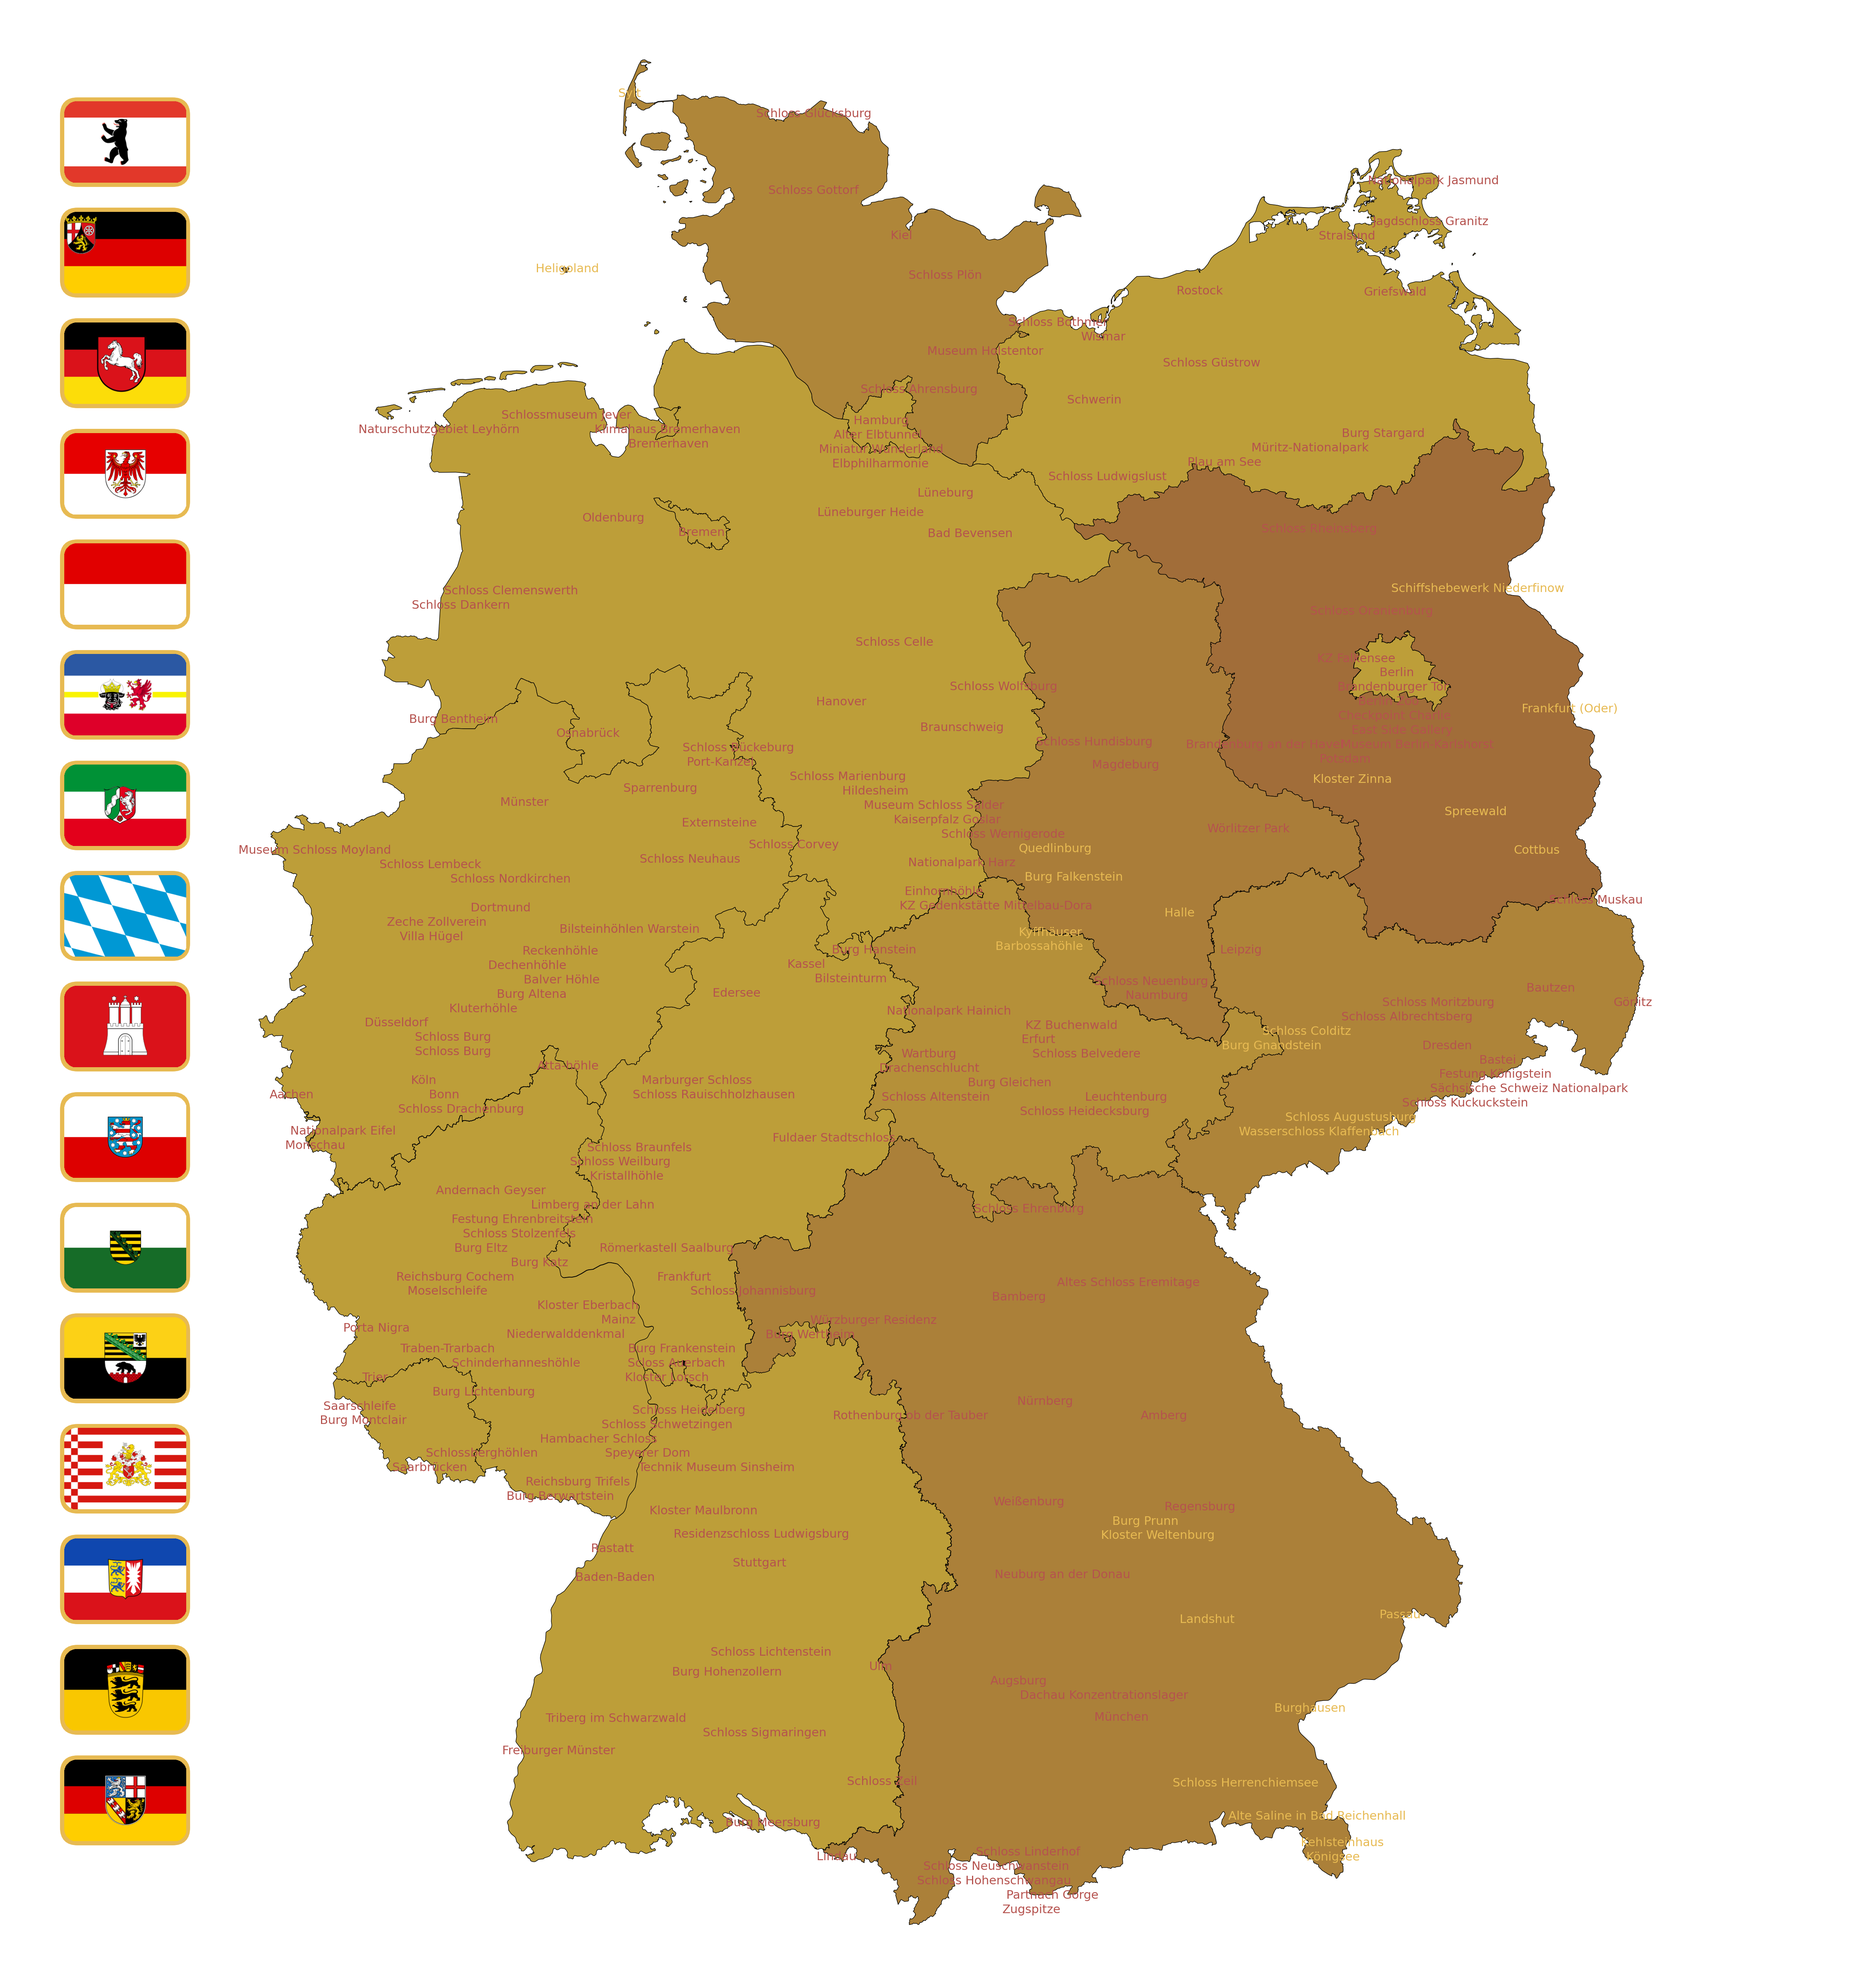
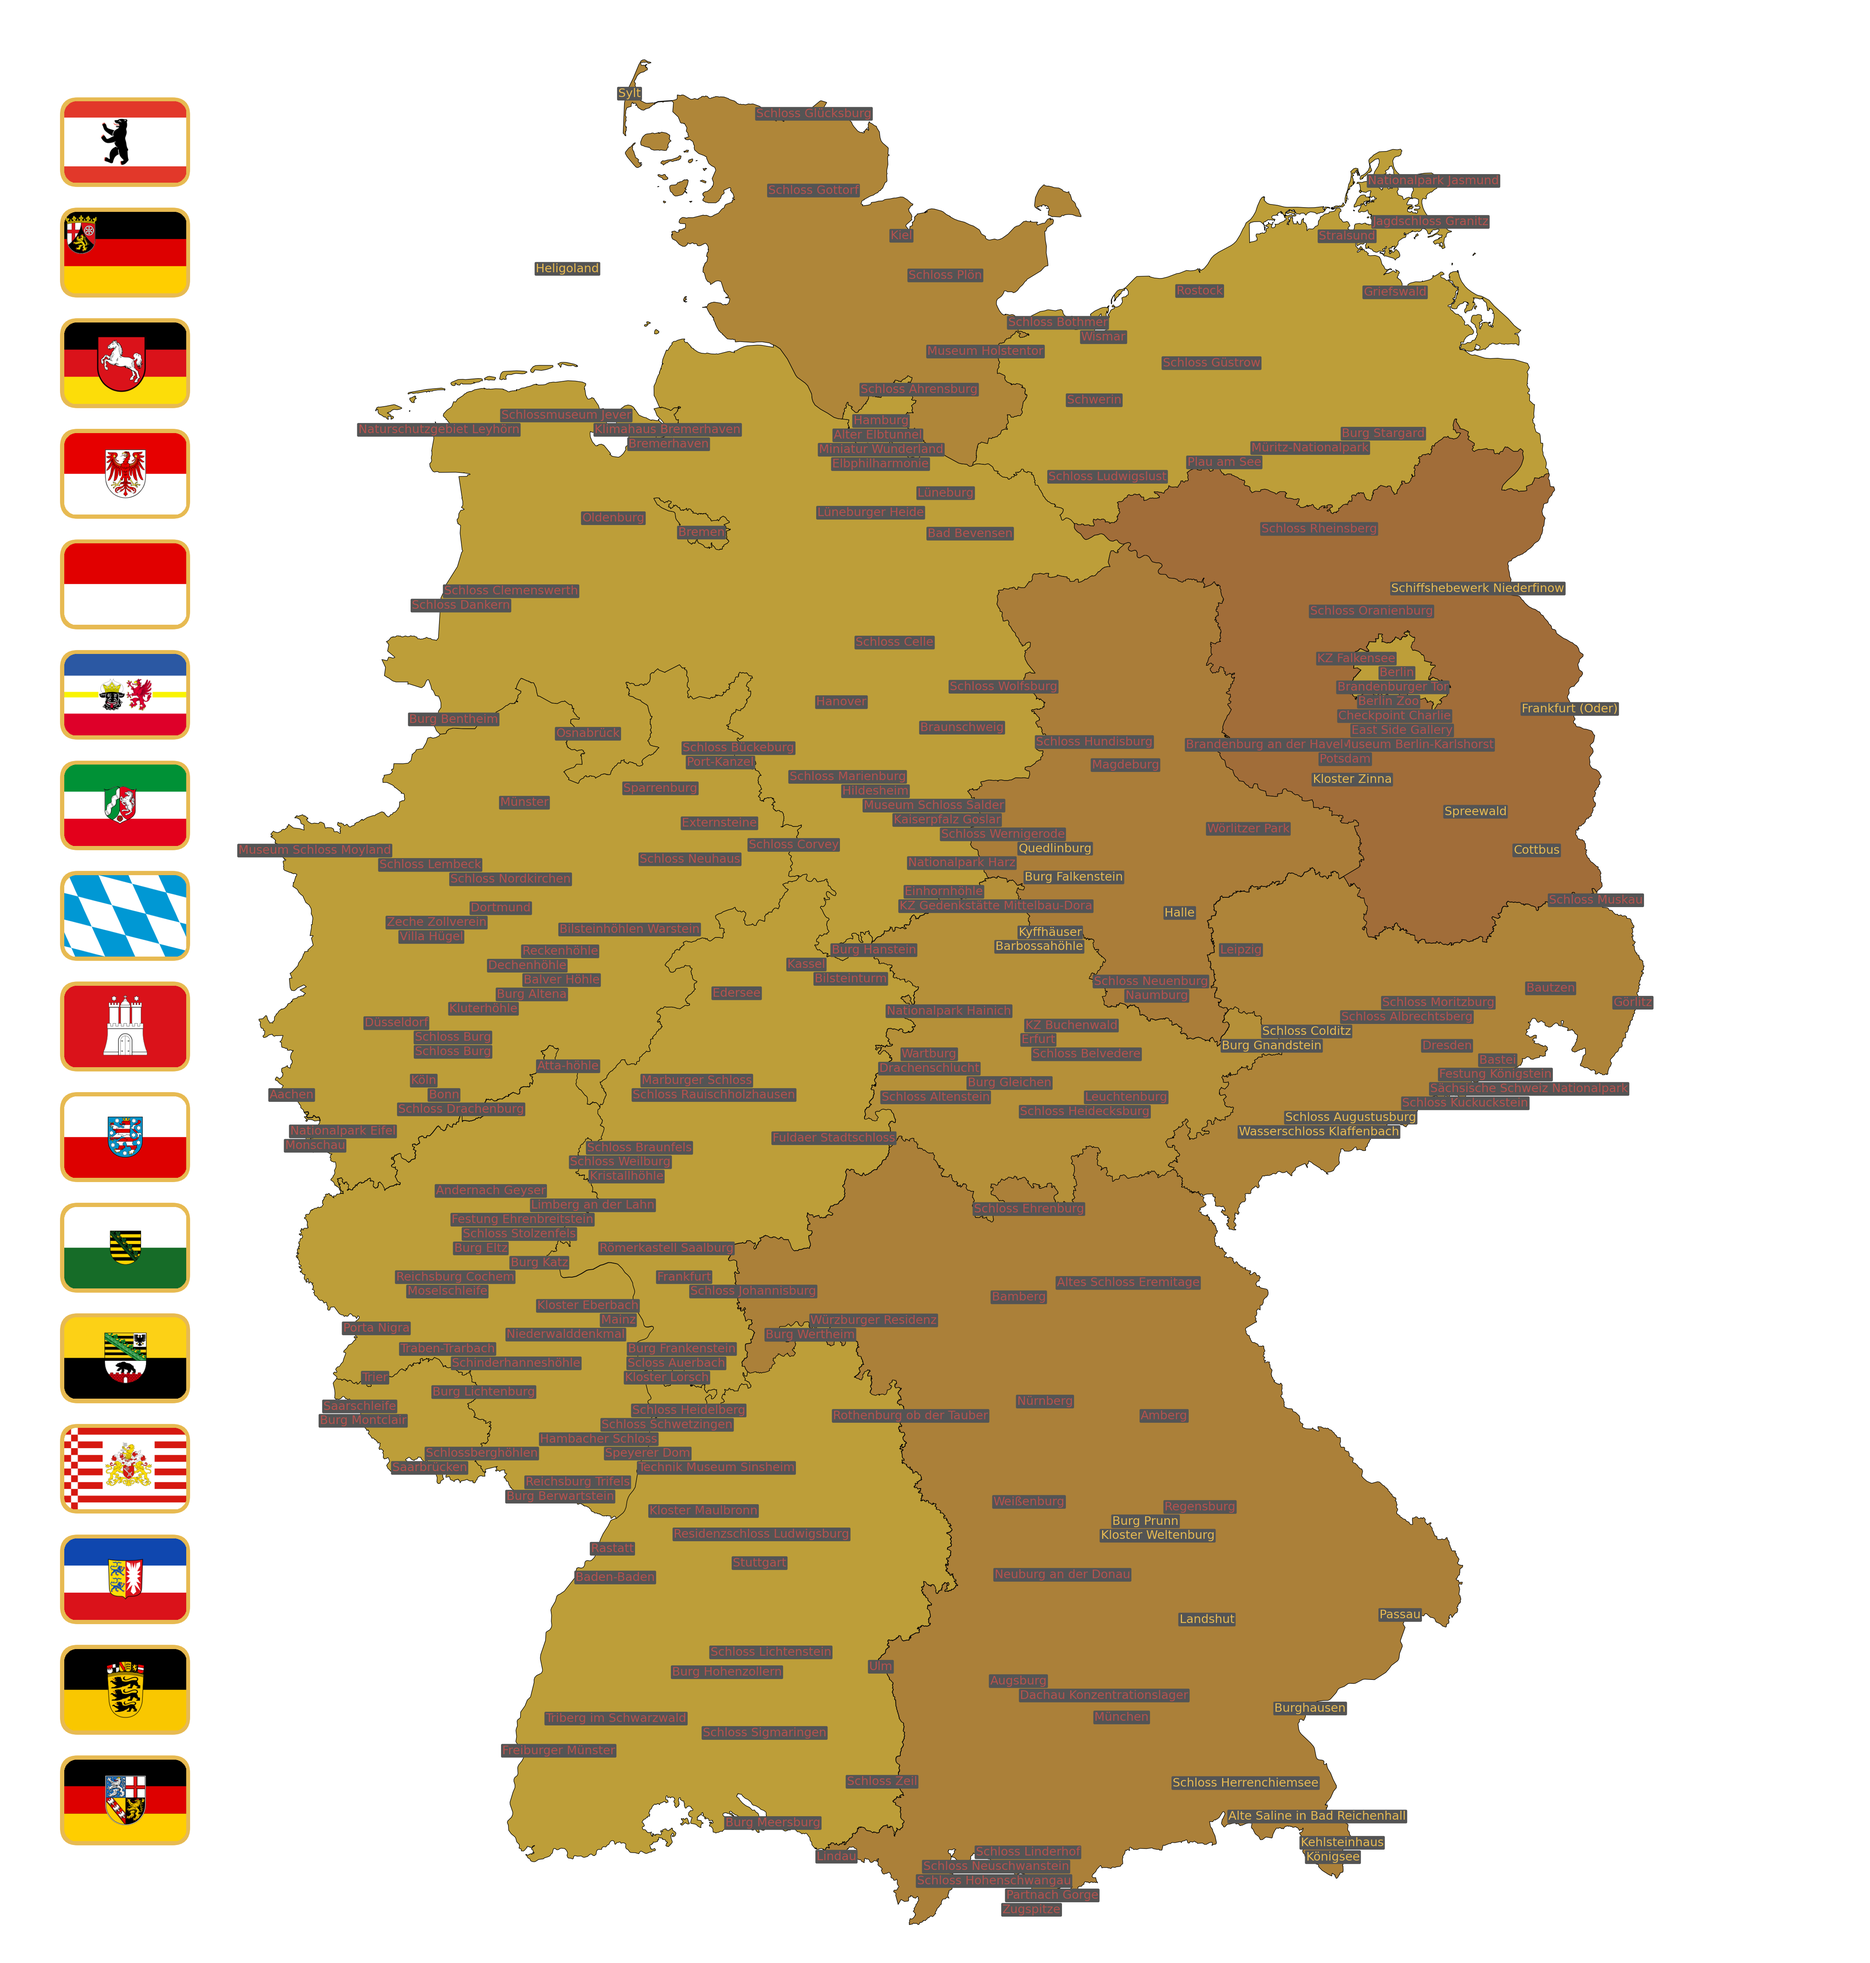
add boundary box for text

diff --git a/plotting/plotting_helpers.py b/plotting/plotting_helpers.py
@@ -30,7 +30,13 @@ def plot_location_labels(ax, locations_df, current_date, labels_config, scale, c
             fontsize=labels_config["Font"] * scale,
             color=label_color,
             ha="center",
-            va="center"
+            va="center",
+            bbox=dict(
+                boxstyle="round,pad=0.1",
+                facecolor="#545454",
+                #alpha=0.8,
+                edgecolor="none"
+            )
         )
 
 def spread_longitudes(locations_df_sorted, lon_threshold, lat_threshold, shift_step):

diff --git a/main.py b/main.py
@@ -10,13 +10,13 @@ from utils.file_utils import ensure_directory_exists
 
 
 # Set global variables, directories for map creation and site locations
-SCALE = 5
+SCALE = 4
 
 # US National Park Global Variables
-PATH = "us"
+#PATH = "us"
 
 # Germany Global Variables
-#PATH = "de"
+PATH = "de"
 
 # Europe Global Variables
 #PATH = "eu"
